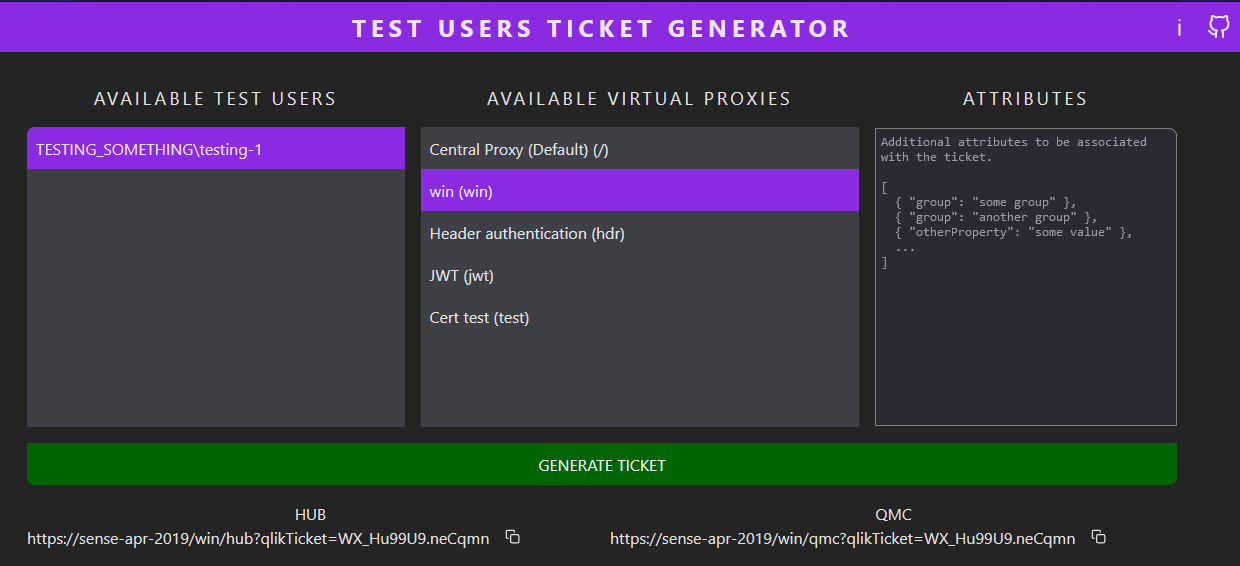
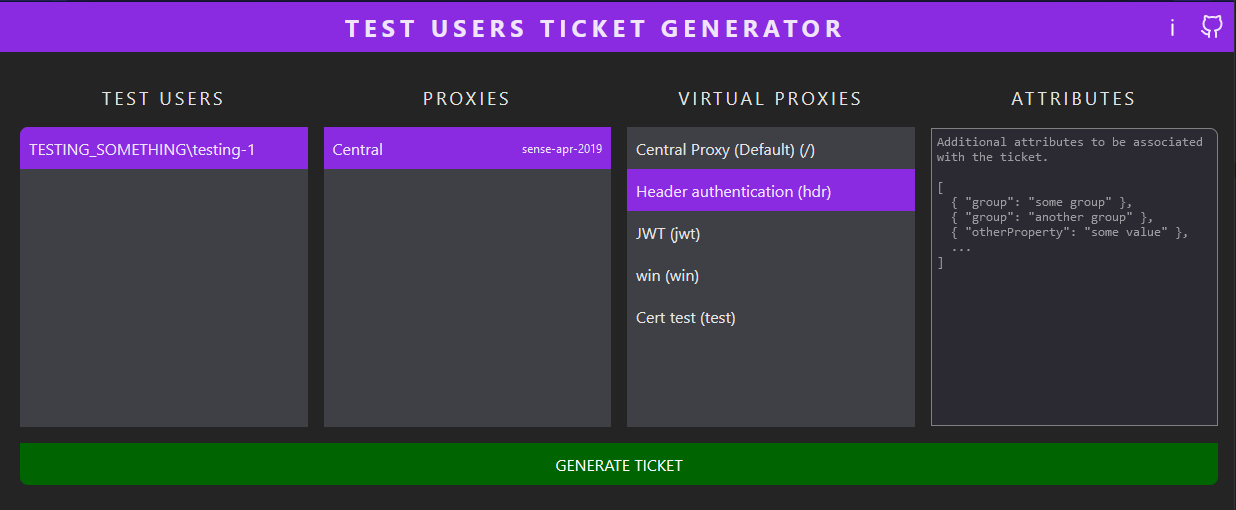
readme updates; version bumped on both to 0.1.0

diff --git a/README.md b/README.md
@@ -90,7 +90,8 @@ The service produces two log files in the folder where the `qlik-test-users-tick
 
   ```json
   {
-      "userId":"1111111-2222-3333-4444-555555555555"
+      "userId": "1111111-2222-3333-4444-555555555555"
+      "proxyId": "6666666-7777-8888-9999-000000000000" // id of the proxy service. The ticket will be generated on the host that is behind that proxy service
       "virtualProxyPrefix": "something" // optional. If not provided then the service will generate the ticket for the default ("/") virtual proxy
   }
   ```
@@ -110,7 +111,7 @@ The service produces two log files in the folder where the `qlik-test-users-tick
   }
   ```
 
-- `GET` `/virtualproxies` - used by the UI to return list with all possible virtual proxies
+- `GET` `/proxies` - used by the UI to return list with all active proxies and their virtual proxies
 - `GET` `/users` - used by the UI to return list with the all available test users
 
 ## UI
@@ -120,7 +121,8 @@ The UI itself is very simple:
 ![UI](/assets/ui_image.png)
 
 - choose test user from the list
-- choose virtual proxy from the list
+- choose proxy from the list
+- choose virtual proxy from the list (after proxy is selected)
 - press "Generate ticket" button
 - get links to QMC and Hub with the ticket applied
 
@@ -129,5 +131,5 @@ The UI itself is very simple:
 I would like few (major) things to be implemented in the future releases:
 
 - manage multiple Qlik Sense environments - at the moment the service can generate tickets for only one QS cluster and if there is a need for more clusters then the service have to be installed multiple times. Which is ok but I would like for the app be able to handle multiple clusters from one instance.
-- manage multiple proxy services - some QS installations have multiple proxy services enabled and used and the virtual proxies are can be linked to these different proxies. This scenario require change to the config, the UI and a bit of backend
+- **implemented** ~~manage multiple proxy services - some QS installations have multiple proxy services enabled and used and the virtual proxies are can be linked to these different proxies. This scenario require change to the config, the UI and a bit of backend~~
 - **implemented** ~~attributes - the ticket generation endpoint accepts an optional property `attributes`. It will be useful (esp when talking about testing) to be able to provide additional attributes that will be associated the generated ticket. An example of attributes can be AD groups. Usually these attributes are set internally when Qlik generates the users session. But since we are using test users, that do not exists in any AD, the way to set these can be done via session/ticket attributes~~
